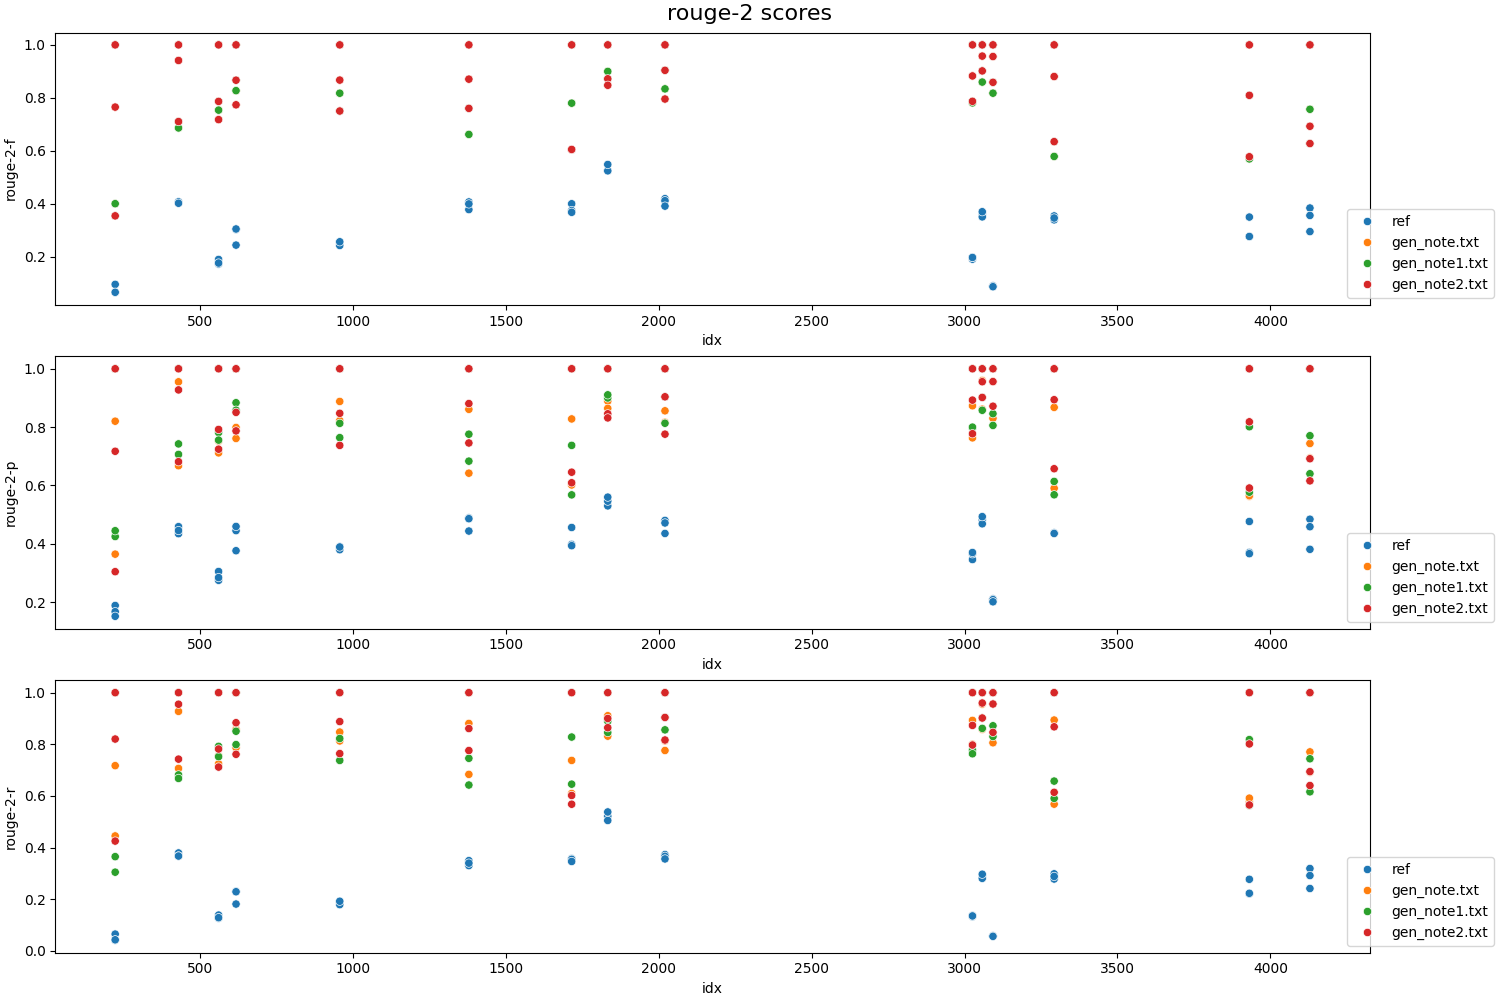
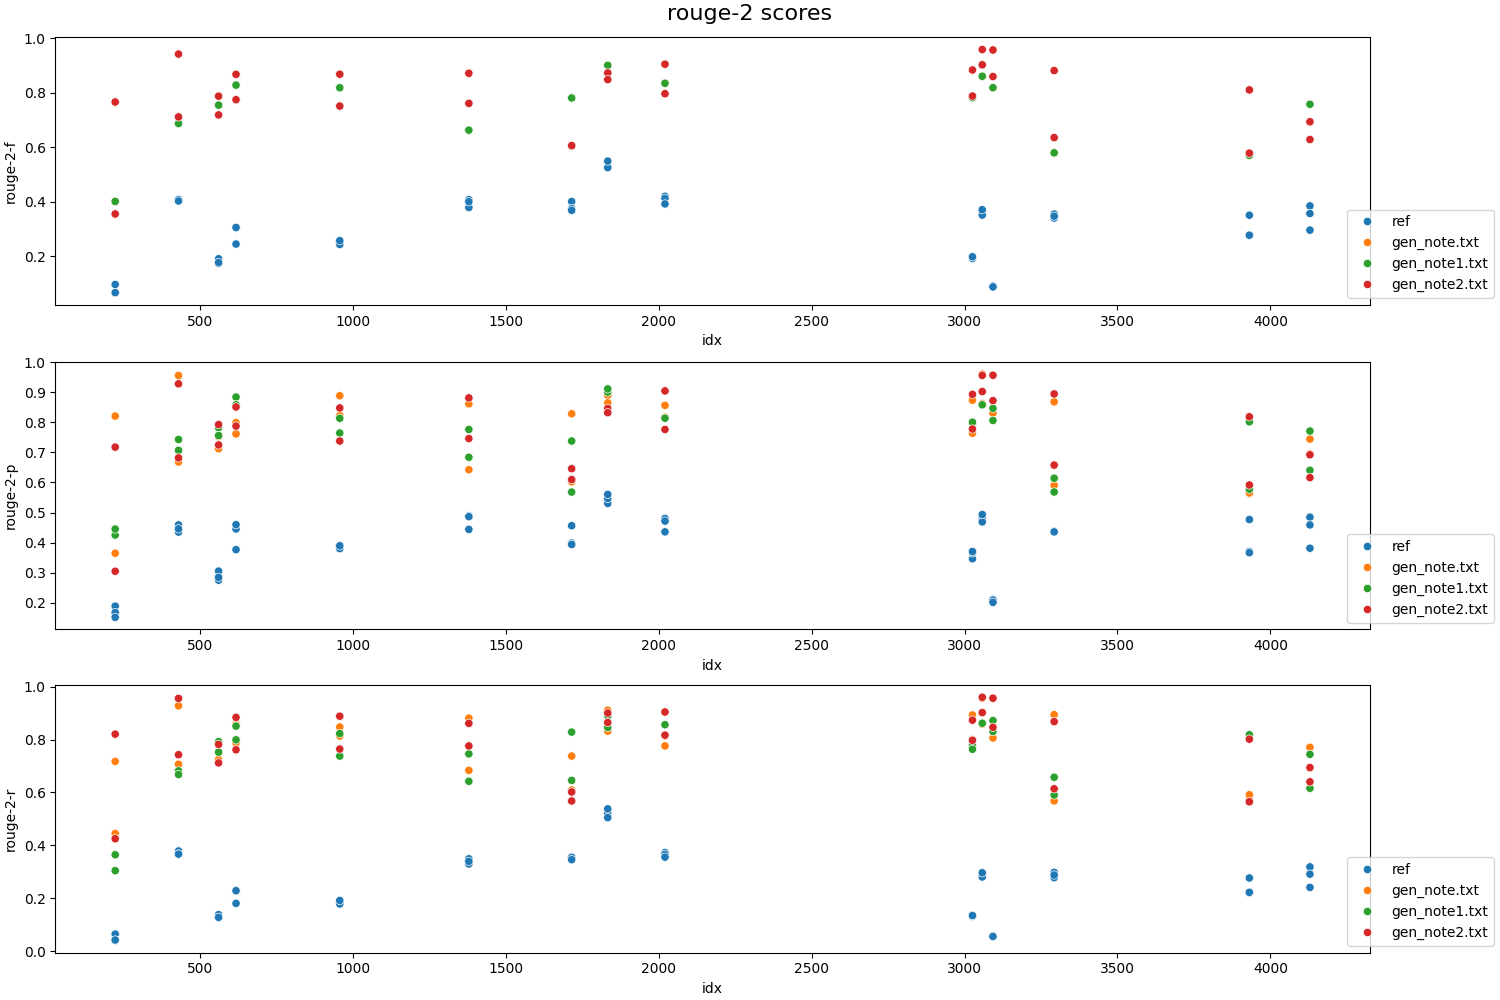
removed comparisons between identical notes from plot

diff --git a/plot.py b/plot.py
@@ -5,13 +5,16 @@ import seaborn as sns
 import re
 
 MODEL_NAME = 'ozwell'
-PROMPT_NAME = 'g1'
+PROMPT_NAME = 'g2'
 FILE_NAME = 'eval_report'
 
 if __name__ == '__main__':
     
     path = os.path.join('expiriments', MODEL_NAME, PROMPT_NAME)
     data = pd.read_json(os.path.join(path, FILE_NAME + '.json'))
+    if re.search(r'eval_report', FILE_NAME):
+        # exclude comparisons between identical notes
+        data = data[data['standard_note_path'] != data['gen_note_path']].reset_index(drop=True).copy()
     rouge_dfs = []
     for rt in ['rouge-1', 'rouge-2', 'rouge-l']:
         rouge_dfs.append(pd.DataFrame.from_records(data[rt].values).rename(columns={k:f'{rt}-{k}' for k in ['f', 'p', 'r']}))

diff --git a/README.md b/README.md
@@ -75,7 +75,7 @@ note = req.send(conversation_text)
 
 4) Plotting
 
-- `plot.py` reads `expiriments/{generation_model_name}/{generation_prompt_name}/eval_report.json` or `expiriments/{generation_model_name}/{generation_prompt_name}/rouge_avgs.json` (or other aggregated JSON) and writes scatter plots into `expiriments/{generation_model_name}/{generation_prompt_name}/plots/`.
+- `plot.py` reads `expiriments/{generation_model_name}/{generation_prompt_name}/eval_report.json` or `expiriments/{generation_model_name}/{generation_prompt_name}/rouge_avgs.json` (or other aggregated JSON) and writes scatter plots into `expiriments/{generation_model_name}/{generation_prompt_name}/plots/`. The plots are color-coded in accordance with the 'standard note' used to compare.
 
 Files & conventions
 
@@ -83,6 +83,7 @@ Files & conventions
 - Generated notes: `{model}/{prompt}/{idx}/gen_note.txt`. If multiple versions are generated, the utility appends a numeric suffix: `gen_note.txt`, `gen_note1.txt`, `gen_note2.txt`, etc.
 - Evaluation report: `expiriments/{generation_model}/{generation_prompt}/eval_report.json` with keys like `{"rouge-1": ..., "ozwell-s1": ...}`.
 - Standards: place symlinks to canonical standard notes in `standards/` named `standard_note_{idx}.txt` (use `utils.set_standard()` to create symlinks programmatically).
+- Expiriments/old_results: contains older versions of `eval_reports.json` and `rouge_avgs.json` that are poorly formatted
 
 ## Developer notes
 
